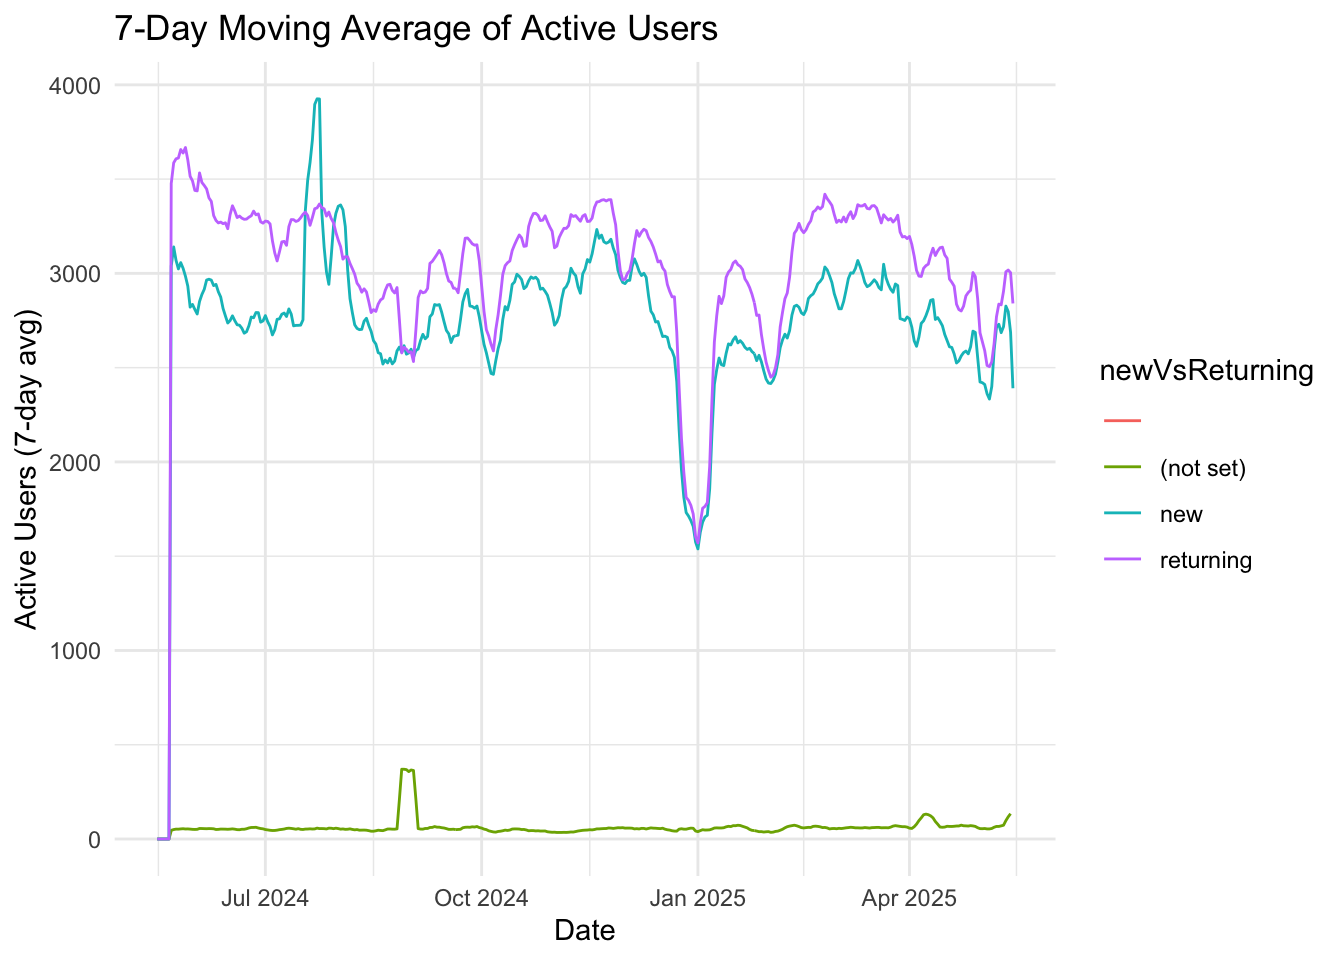
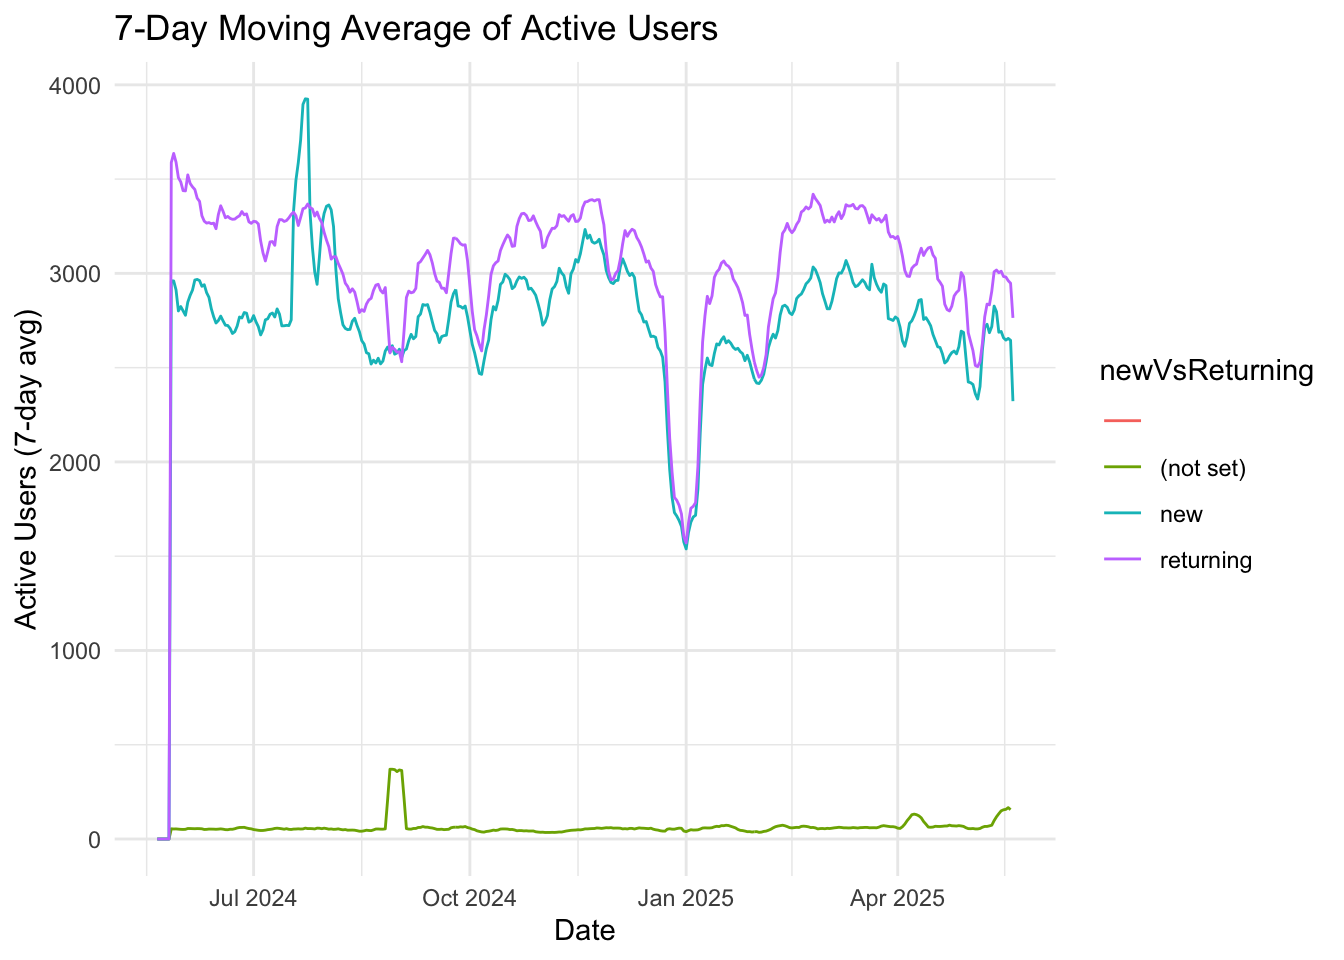
Update documentation

diff --git a/reference/get_github_by_topic.html b/reference/get_github_by_topic.html
@@ -1,0 +1,121 @@
+<!DOCTYPE html>
+<!-- Generated by pkgdown: do not edit by hand --><html lang="en"><head><meta http-equiv="Content-Type" content="text/html; charset=UTF-8"><meta charset="utf-8"><meta http-equiv="X-UA-Compatible" content="IE=edge"><meta name="viewport" content="width=device-width, initial-scale=1, shrink-to-fit=no"><title>Get GitHub Repositories by Topic — get_github_by_topic • programets</title><script src="../deps/jquery-3.6.0/jquery-3.6.0.min.js"></script><meta name="viewport" content="width=device-width, initial-scale=1, shrink-to-fit=no"><link href="../deps/bootstrap-5.3.1/bootstrap.min.css" rel="stylesheet"><script src="../deps/bootstrap-5.3.1/bootstrap.bundle.min.js"></script><link href="../deps/font-awesome-6.5.2/css/all.min.css" rel="stylesheet"><link href="../deps/font-awesome-6.5.2/css/v4-shims.min.css" rel="stylesheet"><script src="../deps/headroom-0.11.0/headroom.min.js"></script><script src="../deps/headroom-0.11.0/jQuery.headroom.min.js"></script><script src="../deps/bootstrap-toc-1.0.1/bootstrap-toc.min.js"></script><script src="../deps/clipboard.js-2.0.11/clipboard.min.js"></script><script src="../deps/search-1.0.0/autocomplete.jquery.min.js"></script><script src="../deps/search-1.0.0/fuse.min.js"></script><script src="../deps/search-1.0.0/mark.min.js"></script><!-- pkgdown --><script src="../pkgdown.js"></script><meta property="og:title" content="Get GitHub Repositories by Topic — get_github_by_topic"><meta name="description" content="Get GitHub Repositories by Topic"><meta property="og:description" content="Get GitHub Repositories by Topic"></head><body>
+    <a href="#main" class="visually-hidden-focusable">Skip to contents</a>
+
+
+    <nav class="navbar navbar-expand-lg fixed-top bg-primary" data-bs-theme="dark" aria-label="Site navigation"><div class="container">
+
+    <a class="navbar-brand me-2" href="../index.html">programets</a>
+
+    <small class="nav-text text-muted me-auto" data-bs-toggle="tooltip" data-bs-placement="bottom" title="">0.3.0</small>
+
+
+    <button class="navbar-toggler" type="button" data-bs-toggle="collapse" data-bs-target="#navbar" aria-controls="navbar" aria-expanded="false" aria-label="Toggle navigation">
+      <span class="navbar-toggler-icon"></span>
+    </button>
+
+    <div id="navbar" class="collapse navbar-collapse ms-3">
+      <ul class="navbar-nav me-auto"><li class="active nav-item"><a class="nav-link" href="../reference/index.html">Reference</a></li>
+<li class="nav-item dropdown">
+  <button class="nav-link dropdown-toggle" type="button" id="dropdown-articles" data-bs-toggle="dropdown" aria-expanded="false" aria-haspopup="true">Articles</button>
+  <ul class="dropdown-menu" aria-labelledby="dropdown-articles"><li><a class="dropdown-item" href="../articles/effective_google_analytics.html">Using google analytics effectively</a></li>
+    <li><a class="dropdown-item" href="../articles/googleanalytics.html">Google Analytics</a></li>
+  </ul></li>
+      </ul><ul class="navbar-nav"><li class="nav-item"><form class="form-inline" role="search">
+ <input class="form-control" type="search" name="search-input" id="search-input" autocomplete="off" aria-label="Search site" placeholder="Search for" data-search-index="../search.json"></form></li>
+      </ul></div>
+
+
+  </div>
+</nav><div class="container template-reference-topic">
+<div class="row">
+  <main id="main" class="col-md-9"><div class="page-header">
+
+      <h1>Get GitHub Repositories by Topic</h1>
+
+      <div class="d-none name"><code>get_github_by_topic.Rd</code></div>
+    </div>
+
+    <div class="ref-description section level2">
+    <p>Get GitHub Repositories by Topic</p>
+    </div>
+
+    <div class="section level2">
+    <h2 id="ref-usage">Usage<a class="anchor" aria-label="anchor" href="#ref-usage"></a></h2>
+    <div class="sourceCode"><pre class="sourceCode r"><code><span><span class="fu">get_github_by_topic</span><span class="op">(</span><span class="va">topics</span>, token <span class="op">=</span> <span class="cn">NULL</span>, limit <span class="op">=</span> <span class="fl">30</span><span class="op">)</span></span></code></pre></div>
+    </div>
+
+    <div class="section level2">
+    <h2 id="arguments">Arguments<a class="anchor" aria-label="anchor" href="#arguments"></a></h2>
+
+
+<dl><dt id="arg-topics">topics<a class="anchor" aria-label="anchor" href="#arg-topics"></a></dt>
+<dd><p>A vector of GitHub topics to search for.</p></dd>
+
+
+<dt id="arg-token">token<a class="anchor" aria-label="anchor" href="#arg-token"></a></dt>
+<dd><p>A GitHub personal access token. If not provided, the function
+will run without authentication.</p></dd>
+
+
+<dt id="arg-limit">limit<a class="anchor" aria-label="anchor" href="#arg-limit"></a></dt>
+<dd><p>The maximum number of results to return. Defaults to 30.</p></dd>
+
+</dl></div>
+    <div class="section level2">
+    <h2 id="value">Value<a class="anchor" aria-label="anchor" href="#value"></a></h2>
+    <p>A data frame containing the results of the search query.</p>
+    </div>
+
+    <div class="section level2">
+    <h2 id="ref-examples">Examples<a class="anchor" aria-label="anchor" href="#ref-examples"></a></h2>
+    <div class="sourceCode"><pre class="sourceCode r"><code><span class="r-in"><span><span class="va">topics</span> <span class="op">&lt;-</span> <span class="fu"><a href="https://rdrr.io/r/base/c.html" class="external-link">c</a></span><span class="op">(</span><span class="st">"u24ca289073"</span><span class="op">)</span></span></span>
+<span class="r-in"><span><span class="va">df</span> <span class="op">=</span> <span class="fu">get_github_by_topic</span><span class="op">(</span><span class="va">topics</span>, limit <span class="op">=</span> <span class="fl">50</span><span class="op">)</span></span></span>
+<span class="r-in"><span><span class="fu"><a href="https://rdrr.io/r/utils/head.html" class="external-link">head</a></span><span class="op">(</span><span class="va">df</span><span class="op">)</span></span></span>
+<span class="r-out co"><span class="r-pr">#&gt;</span> <span style="color: #949494;"># A tibble: 6 × 11</span></span>
+<span class="r-out co"><span class="r-pr">#&gt;</span>   name       owner stars forks open_issues language license created_at pushed_at</span>
+<span class="r-out co"><span class="r-pr">#&gt;</span>   <span style="color: #949494; font-style: italic;">&lt;chr&gt;</span>      <span style="color: #949494; font-style: italic;">&lt;chr&gt;</span> <span style="color: #949494; font-style: italic;">&lt;dbl&gt;</span> <span style="color: #949494; font-style: italic;">&lt;dbl&gt;</span>       <span style="color: #949494; font-style: italic;">&lt;dbl&gt;</span> <span style="color: #949494; font-style: italic;">&lt;chr&gt;</span>    <span style="color: #949494; font-style: italic;">&lt;chr&gt;</span>   <span style="color: #949494; font-style: italic;">&lt;chr&gt;</span>      <span style="color: #949494; font-style: italic;">&lt;chr&gt;</span>    </span>
+<span class="r-out co"><span class="r-pr">#&gt;</span> <span style="color: #BCBCBC;">1</span> awesome-c… sean…   311    73           1 <span style="color: #BB0000;">NA</span>       MIT Li… 2016-07-0… 2025-03-…</span>
+<span class="r-out co"><span class="r-pr">#&gt;</span> <span style="color: #BCBCBC;">2</span> MultiAssa… wald…    72    35           1 R        <span style="color: #BB0000;">NA</span>      2013-07-2… 2025-05-…</span>
+<span class="r-out co"><span class="r-pr">#&gt;</span> <span style="color: #BCBCBC;">3</span> BiocParal… Bioc…    67    31          31 R        Other   2012-11-1… 2025-05-…</span>
+<span class="r-out co"><span class="r-pr">#&gt;</span> <span style="color: #BCBCBC;">4</span> SpatialEx… drig…    62    21          33 R        <span style="color: #BB0000;">NA</span>      2020-02-1… 2025-05-…</span>
+<span class="r-out co"><span class="r-pr">#&gt;</span> <span style="color: #BCBCBC;">5</span> HGNChelper wald…    58    10           4 R        <span style="color: #BB0000;">NA</span>      2018-07-0… 2024-11-…</span>
+<span class="r-out co"><span class="r-pr">#&gt;</span> <span style="color: #BCBCBC;">6</span> curatedTC… wald…    44     9           7 R        <span style="color: #BB0000;">NA</span>      2016-10-0… 2025-05-…</span>
+<span class="r-out co"><span class="r-pr">#&gt;</span> <span style="color: #949494;"># ℹ 2 more variables: updated_at &lt;chr&gt;, html_url &lt;chr&gt;</span></span>
+<span class="r-in"><span><span class="fu">dplyr</span><span class="fu">::</span><span class="fu"><a href="https://pillar.r-lib.org/reference/glimpse.html" class="external-link">glimpse</a></span><span class="op">(</span><span class="va">df</span><span class="op">)</span></span></span>
+<span class="r-out co"><span class="r-pr">#&gt;</span> Rows: 48</span>
+<span class="r-out co"><span class="r-pr">#&gt;</span> Columns: 11</span>
+<span class="r-out co"><span class="r-pr">#&gt;</span> $ name        <span style="color: #949494; font-style: italic;">&lt;chr&gt;</span> "awesome-cancer-variant-resources"<span style="color: #949494;">, </span>"MultiAssayExperiment"…</span>
+<span class="r-out co"><span class="r-pr">#&gt;</span> $ owner       <span style="color: #949494; font-style: italic;">&lt;chr&gt;</span> "seandavi"<span style="color: #949494;">, </span>"waldronlab"<span style="color: #949494;">, </span>"Bioconductor"<span style="color: #949494;">, </span>"drighelli"<span style="color: #949494;">, </span>"wa…</span>
+<span class="r-out co"><span class="r-pr">#&gt;</span> $ stars       <span style="color: #949494; font-style: italic;">&lt;dbl&gt;</span> 311<span style="color: #949494;">, </span>72<span style="color: #949494;">, </span>67<span style="color: #949494;">, </span>62<span style="color: #949494;">, </span>58<span style="color: #949494;">, </span>44<span style="color: #949494;">, </span>33<span style="color: #949494;">, </span>27<span style="color: #949494;">, </span>27<span style="color: #949494;">, </span>21<span style="color: #949494;">, </span>20<span style="color: #949494;">, </span>20<span style="color: #949494;">, </span>19<span style="color: #949494;">, </span>17<span style="color: #949494;">, </span>1…</span>
+<span class="r-out co"><span class="r-pr">#&gt;</span> $ forks       <span style="color: #949494; font-style: italic;">&lt;dbl&gt;</span> 73<span style="color: #949494;">, </span>35<span style="color: #949494;">, </span>31<span style="color: #949494;">, </span>21<span style="color: #949494;">, </span>10<span style="color: #949494;">, </span>9<span style="color: #949494;">, </span>14<span style="color: #949494;">, </span>7<span style="color: #949494;">, </span>11<span style="color: #949494;">, </span>13<span style="color: #949494;">, </span>11<span style="color: #949494;">, </span>4<span style="color: #949494;">, </span>16<span style="color: #949494;">, </span>9<span style="color: #949494;">, </span>8<span style="color: #949494;">, </span>4<span style="color: #949494;">, </span>…</span>
+<span class="r-out co"><span class="r-pr">#&gt;</span> $ open_issues <span style="color: #949494; font-style: italic;">&lt;dbl&gt;</span> 1<span style="color: #949494;">, </span>1<span style="color: #949494;">, </span>31<span style="color: #949494;">, </span>33<span style="color: #949494;">, </span>4<span style="color: #949494;">, </span>7<span style="color: #949494;">, </span>5<span style="color: #949494;">, </span>1<span style="color: #949494;">, </span>19<span style="color: #949494;">, </span>6<span style="color: #949494;">, </span>2<span style="color: #949494;">, </span>0<span style="color: #949494;">, </span>6<span style="color: #949494;">, </span>1<span style="color: #949494;">, </span>6<span style="color: #949494;">, </span>2<span style="color: #949494;">, </span>2<span style="color: #949494;">, </span>9<span style="color: #949494;">, </span>5…</span>
+<span class="r-out co"><span class="r-pr">#&gt;</span> $ language    <span style="color: #949494; font-style: italic;">&lt;chr&gt;</span> <span style="color: #BB0000;">NA</span><span style="color: #949494;">, </span>"R"<span style="color: #949494;">, </span>"R"<span style="color: #949494;">, </span>"R"<span style="color: #949494;">, </span>"R"<span style="color: #949494;">, </span>"R"<span style="color: #949494;">, </span>"R"<span style="color: #949494;">, </span>"R"<span style="color: #949494;">, </span>"R"<span style="color: #949494;">, </span>"R"<span style="color: #949494;">, </span>"Dockerfi…</span>
+<span class="r-out co"><span class="r-pr">#&gt;</span> $ license     <span style="color: #949494; font-style: italic;">&lt;chr&gt;</span> "MIT License"<span style="color: #949494;">, </span><span style="color: #BB0000;">NA</span><span style="color: #949494;">, </span>"Other"<span style="color: #949494;">, </span><span style="color: #BB0000;">NA</span><span style="color: #949494;">, </span><span style="color: #BB0000;">NA</span><span style="color: #949494;">, </span><span style="color: #BB0000;">NA</span><span style="color: #949494;">, </span><span style="color: #BB0000;">NA</span><span style="color: #949494;">, </span><span style="color: #BB0000;">NA</span><span style="color: #949494;">, </span><span style="color: #BB0000;">NA</span><span style="color: #949494;">, </span>"MIT L…</span>
+<span class="r-out co"><span class="r-pr">#&gt;</span> $ created_at  <span style="color: #949494; font-style: italic;">&lt;chr&gt;</span> "2016-07-07T13:16:14Z"<span style="color: #949494;">, </span>"2013-07-22T03:29:27Z"<span style="color: #949494;">, </span>"2012-11-1…</span>
+<span class="r-out co"><span class="r-pr">#&gt;</span> $ pushed_at   <span style="color: #949494; font-style: italic;">&lt;chr&gt;</span> "2025-03-06T23:04:53Z"<span style="color: #949494;">, </span>"2025-05-06T15:45:16Z"<span style="color: #949494;">, </span>"2025-05-2…</span>
+<span class="r-out co"><span class="r-pr">#&gt;</span> $ updated_at  <span style="color: #949494; font-style: italic;">&lt;chr&gt;</span> "2025-05-06T16:45:16Z"<span style="color: #949494;">, </span>"2025-05-06T15:45:20Z"<span style="color: #949494;">, </span>"2025-05-1…</span>
+<span class="r-out co"><span class="r-pr">#&gt;</span> $ html_url    <span style="color: #949494; font-style: italic;">&lt;chr&gt;</span> "https://github.com/seandavi/awesome-cancer-variant-resour…</span>
+<span class="r-in"><span></span></span>
+</code></pre></div>
+    </div>
+  </main><aside class="col-md-3"><nav id="toc" aria-label="Table of contents"><h2>On this page</h2>
+    </nav></aside></div>
+
+
+    <footer><div class="pkgdown-footer-left">
+  <p>Developed by Sean Davis, David Mayer.</p>
+</div>
+
+<div class="pkgdown-footer-right">
+  <p>Site built with <a href="https://pkgdown.r-lib.org/" class="external-link">pkgdown</a> 2.1.1.</p>
+</div>
+
+    </footer></div>
+
+
+
+
+
+  </body></html>
+

diff --git a/articles/googleanalytics.html b/articles/googleanalytics.html
@@ -126,7 +126,7 @@
 <span>    date_range <span class="op">=</span> <span class="fu"><a href="https://rdrr.io/r/base/c.html" class="external-link">c</a></span><span class="op">(</span><span class="va">start_date</span>, <span class="va">end_date</span><span class="op">)</span>,</span>
 <span>    limit <span class="op">=</span> <span class="op">-</span><span class="fl">1</span></span>
 <span><span class="op">)</span></span>
-<span><span class="co">#&gt; ℹ 2025-05-16 17:22:43.825876 &gt; Downloaded [ 84236 ] of total [ 84236 ] rows</span></span></code></pre></div>
+<span><span class="co">#&gt; ℹ 2025-05-21 15:31:40.786638 &gt; Downloaded [ 84095 ] of total [ 84095 ] rows</span></span></code></pre></div>
 </div>
 <div class="cell">
 <div class="sourceCode cell-code" id="cb6"><pre class="downlit sourceCode r">
@@ -162,12 +162,12 @@
 <span><span class="co">#&gt; # A tibble: 6 × 7</span></span>
 <span><span class="co">#&gt;   date       newVsReturning country    activeUsers sessions activeUsers_7day_avg</span></span>
 <span><span class="co">#&gt;   &lt;date&gt;     &lt;chr&gt;          &lt;chr&gt;            &lt;dbl&gt;    &lt;dbl&gt;                &lt;dbl&gt;</span></span>
-<span><span class="co">#&gt; 1 2024-05-16 returning      United St…        1145     1633                   NA</span></span>
-<span><span class="co">#&gt; 2 2024-05-16 new            United St…        1050     1051                   NA</span></span>
-<span><span class="co">#&gt; 3 2024-05-16 returning      China              702     1054                   NA</span></span>
-<span><span class="co">#&gt; 4 2024-05-16 new            China              649      648                   NA</span></span>
-<span><span class="co">#&gt; 5 2024-05-16 returning      United Ki…         270      400                   NA</span></span>
-<span><span class="co">#&gt; 6 2024-05-16 returning      Germany            249      400                   NA</span></span>
+<span><span class="co">#&gt; 1 2024-05-21 returning      United St…        1228     1735                   NA</span></span>
+<span><span class="co">#&gt; 2 2024-05-21 new            United St…        1160     1161                   NA</span></span>
+<span><span class="co">#&gt; 3 2024-05-21 returning      China              793     1192                   NA</span></span>
+<span><span class="co">#&gt; 4 2024-05-21 new            China              767      764                   NA</span></span>
+<span><span class="co">#&gt; 5 2024-05-21 returning      United Ki…         297      441                   NA</span></span>
+<span><span class="co">#&gt; 6 2024-05-21 returning      Germany            230      337                   NA</span></span>
 <span><span class="co">#&gt; # ℹ 1 more variable: sessions_7day_avg &lt;dbl&gt;</span></span>
 <span></span>
 <span><span class="co"># Plot the moving average for active users</span></span>

diff --git a/reference/get_publications_for_core_projects.html b/reference/get_publications_for_core_projects.html
@@ -86,8 +86,8 @@ project numbers from the NIH RePORTER API.</p>
 <span class="r-out co"><span class="r-pr">#&gt;</span>   core_project_number found applid   pmid     pubmed_url                        </span>
 <span class="r-out co"><span class="r-pr">#&gt;</span>   <span style="color: #949494; font-style: italic;">&lt;chr&gt;</span>               <span style="color: #949494; font-style: italic;">&lt;lgl&gt;</span> <span style="color: #949494; font-style: italic;">&lt;chr&gt;</span>    <span style="color: #949494; font-style: italic;">&lt;chr&gt;</span>    <span style="color: #949494; font-style: italic;">&lt;chr&gt;</span>                             </span>
 <span class="r-out co"><span class="r-pr">#&gt;</span> <span style="color: #BCBCBC;">1</span> 99999999            FALSE <span style="color: #BB0000;">NA</span>       <span style="color: #BB0000;">NA</span>       <span style="color: #BB0000;">NA</span>                                </span>
-<span class="r-out co"><span class="r-pr">#&gt;</span> <span style="color: #BCBCBC;">2</span> U54OD036472         TRUE  10876608 39451360 https://pubmed.ncbi.nlm.nih.gov/3…</span>
-<span class="r-out co"><span class="r-pr">#&gt;</span> <span style="color: #BCBCBC;">3</span> U54OD036472         TRUE  10876608 38659966 https://pubmed.ncbi.nlm.nih.gov/3…</span>
+<span class="r-out co"><span class="r-pr">#&gt;</span> <span style="color: #BCBCBC;">2</span> U54OD036472         TRUE  11054656 39451360 https://pubmed.ncbi.nlm.nih.gov/3…</span>
+<span class="r-out co"><span class="r-pr">#&gt;</span> <span style="color: #BCBCBC;">3</span> U54OD036472         TRUE  11054656 38659966 https://pubmed.ncbi.nlm.nih.gov/3…</span>
 </code></pre></div>
     </div>
   </main><aside class="col-md-3"><nav id="toc" aria-label="Table of contents"><h2>On this page</h2>

diff --git a/reference/epmc_search.html b/reference/epmc_search.html
@@ -45,7 +45,7 @@ It handles pagination using a cursor and returns a tibble of search results.</p>
 
     <div class="section level2">
     <h2 id="ref-usage">Usage<a class="anchor" aria-label="anchor" href="#ref-usage"></a></h2>
-    <div class="sourceCode"><pre class="sourceCode r"><code><span><span class="fu">epmc_search</span><span class="op">(</span><span class="va">query</span>, page_limit <span class="op">=</span> <span class="fl">10</span><span class="op">)</span></span></code></pre></div>
+    <div class="sourceCode"><pre class="sourceCode r"><code><span><span class="fu">epmc_search</span><span class="op">(</span><span class="va">query</span>, page_limit <span class="op">=</span> <span class="fl">10</span>, delay <span class="op">=</span> <span class="fl">1</span><span class="op">)</span></span></code></pre></div>
     </div>
 
     <div class="section level2">
@@ -60,6 +60,10 @@ See <a href="https://europepmc.org/Help" class="external-link">https://europepmc
 <dt id="arg-page-limit">page_limit<a class="anchor" aria-label="anchor" href="#arg-page-limit"></a></dt>
 <dd><p>An integer specifying the maximum number of pages to retrieve.
 Defaults to 10. Set to <code>Inf</code> to retrieve all pages (use with caution).</p></dd>
+
+
+<dt id="arg-delay">delay<a class="anchor" aria-label="anchor" href="#arg-delay"></a></dt>
+<dd><p>An integer delay for API calls. Defaults to 1.</p></dd>
 
 </dl></div>
     <div class="section level2">

diff --git a/reference/index.html b/reference/index.html
@@ -71,6 +71,12 @@
         <dd>Browse google analytics query explorer</dd>
       </dl><dl><dt>
 
+          <code><a href="get_github_by_topic.html">get_github_by_topic()</a></code>
+
+        </dt>
+        <dd>Get GitHub Repositories by Topic</dd>
+      </dl><dl><dt>
+
           <code><a href="get_publications_for_core_projects.html">get_publications_for_core_projects()</a></code>
 
         </dt>
